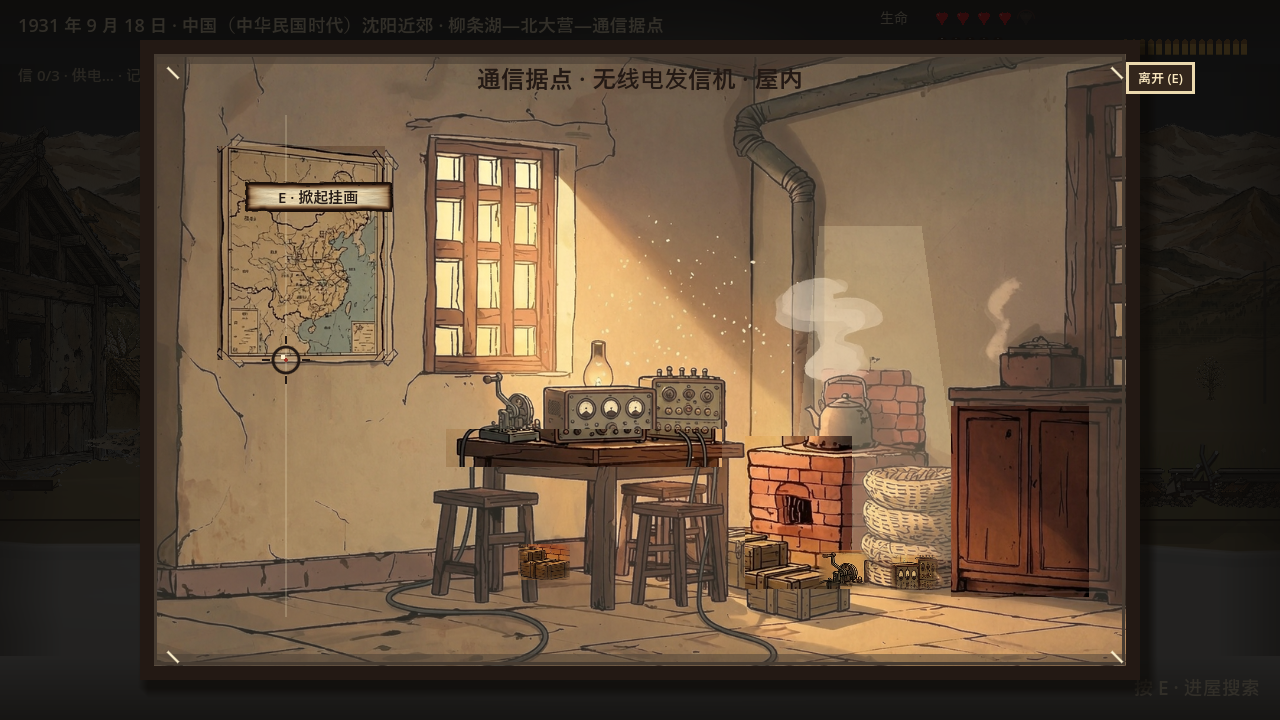
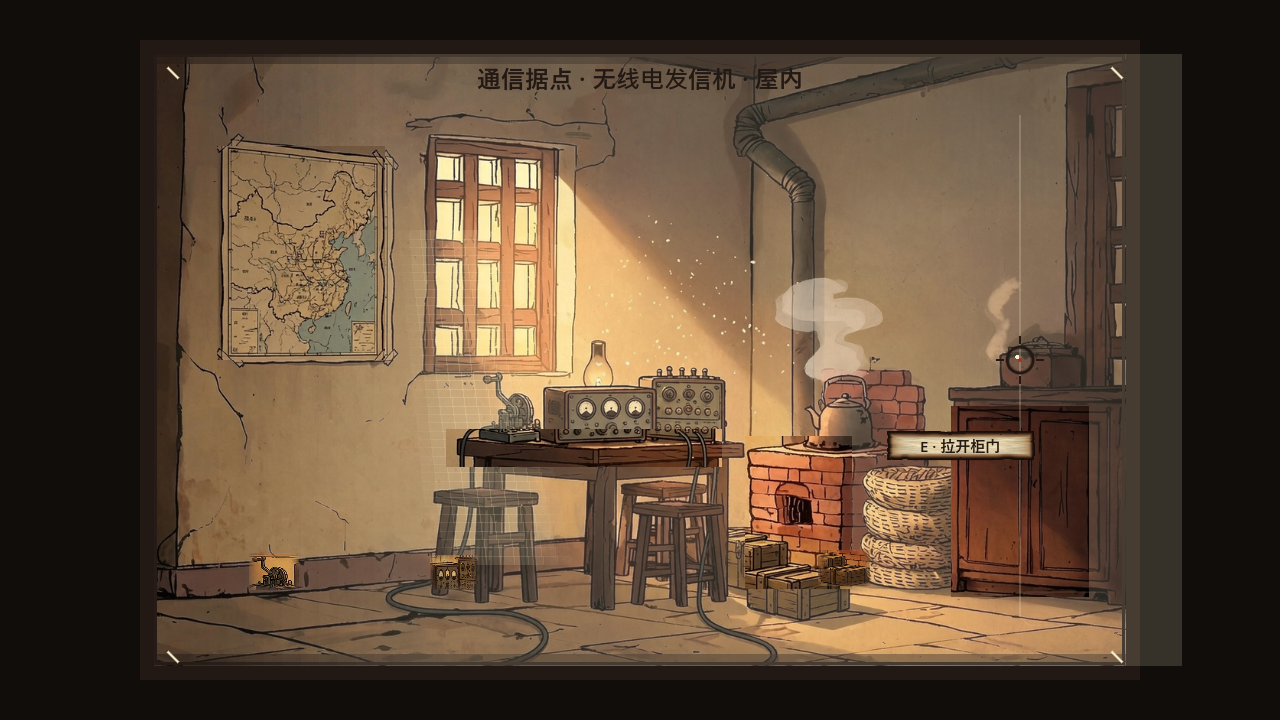
v3.89 · 室内光影修正（窗光对齐真实受光侧 + 局部渐变 + 光束羽化）
- 用户圈室内『阴影区凭空发亮 / 浮空亮块、部分物品异常发亮』：根因在最底层
  DrawWindowLight —— 光束死钉在 wx=0.66W（右侧），但三张室内背景贴图
  (residence/comm_outpost/burnt_warehouse) 窗户与受光面实际都在左侧（仅住家
  variant!=0 因 FlipH 镜像转右侧）；且全屏 RoomWash 均匀提亮把阴影区也提亮。
- 修正：rightWin=(Type==Residence && Variant!=0)；winX 取左 0.30W（variant!=0
  取右 0.74W），光束平行四边形随之从真实窗户斜投；RoomWash 改 56 条竖直细带、
  alpha 由窗户向阴影侧 smoothstep 衰减到≈0（阴影侧不再被提亮）；光束加 40×10
  水平羽化网格消除硬边（暗背景不再读成贴上去的矩形）；地面光斑随落地中心移动。
- dotnet build 0W/0E；CaptureRoom 出住家/通信据点/焚毁仓库三帧；ViewImage 核验：
  住家右侧灶台烟囱浮空亮块消失、左亮右暗自然；通信据点无浮空亮块；焚毁仓库
  硬边光束羽化为自然过渡。
- 画廊 n918_05_interior / n918_07_interior_explore 同名覆盖，?v=3.88/3.87→3.89；
  README 补 v3.89 章节 + 近期更新要点改 v3.89 为当前主线（旧章节全保留）。
- 美术贴图全程未动，仅改光影叠加层，全局钢笔淡彩风格保持统一。

diff --git a/scripts/InteriorExplore.cs b/scripts/InteriorExplore.cs
@@ -1141,38 +1141,77 @@ public partial class InteriorForeground : Control
     /// 画在背景之上、家具之下：窗外晕染（天空/地面/月或日）+ 房间光晕 + 地面光束（+夜：月与星）。
     /// 取色全部来自 WorldClock.For(t)，与关卡全局时辰联动。
     /// </summary>
+    /// <summary>
+    /// v3.89 窗光修正（用户 2026-11-13：阴影区被凭空打亮、右侧灶台烟囱一带浮空亮块）。
+    /// 根因：旧版把光束死钉在 wx=0.66W（右侧），但三张室内背景贴图的窗户/受光面都在
+    /// 左侧（仅住家 variant!=0 因 FlipH 镜像转到右侧），等于在阴影侧凭空打光；
+    /// 且全屏 RoomWash 均匀提亮，把本该暗的角落也提亮。
+    /// 修正：① 光束移到真实窗户所在侧；② 整体光晕改为「靠窗渐亮、向阴影侧 smoothstep
+    /// 衰减到 0」的局部光照，阴影侧不再被提亮（背景贴图本身已画好暗部）。
+    /// </summary>
     private void DrawWindowLight(float W, float H, WorldClock.Phase t)
     {
         var pal = WorldClock.For(t);
-        float wx = W * 0.66f, wy = 54f, ww = 150f, wh = 118f;
+        // 所有室内背景贴图的窗户/受光面都在左侧；仅住家 variant!=0 因贴图 FlipH 镜像，窗户转到右侧。
+        bool rightWin = (_room.Type == RoomType.Residence && _room.Variant != 0);
+        float winX = rightWin ? W * 0.74f : W * 0.30f;   // 窗户中心 x（背景贴图实测受光侧）
+        float winY = 56f;
+        float winW = 150f;
+        float topY = winY + 116f;                          // 窗台下沿（光束起点）
+        float dx = rightWin ? -48f : 48f;                 // 光束落地相对顶端的水平偏移（左窗→右下，右窗→左下）
 
-        // v3.80（用户反馈 #6「这个根本不需要吧」+ 全局画风一致红线）：移除原先浮在
-        // 右上墙面的「浅黄 2×2 方格 + 悬空圆盘」纯色窗框。它读起来像 UI 调试格子、
-        // 与整体手绘上色漫画风冲突；房间左上已有手绘漫画风木格窗承担「有窗」信息。
-        // v3.71 已确认的「窗光随时辰」功能核心保留：改为画外高窗透入的时辰光晕 +
-        // 地面光束表达（颜色仍由 WorldClock.For(t) 联动，夜偏冷 / 晨昏偏暖），不回退功能。
-
-        // 房间整体光晕（低 alpha，叠在背景上，不覆盖家具/物件）
-        DrawRect(new Rect2(0, 0, W, H), pal.RoomWash);
-
-        // 窗投到地面的光束（平行四边形：上端窄、落地宽；半透明）
-        float lx = wx + 24f, rx = wx + ww - 24f;
-        var beam = new Vector2[]
+        // 1) 局部光晕：仅在受光侧（窗户附近）做柔和的水平渐变提亮，绝不整屏均匀提亮。
+        //    用若干竖直细条，alpha 由窗户向阴影侧 smoothstep 衰减到 ~0，保留背景本身画好的暗部。
+        int strips = 56;
+        float colW = W / strips + 1f;
+        for (int i = 0; i < strips; i++)
         {
-            new Vector2(lx, wy + wh),
-            new Vector2(rx, wy + wh),
-            new Vector2(rx + 46f, InteriorRoom.FloorY),
-            new Vector2(lx - 34f, InteriorRoom.FloorY),
-        };
-        DrawColoredPolygon(beam, pal.Beam);
+            float x = i * colW;
+            float d = rightWin ? (x - winX) / (W - winX) : (winX - x) / winX;
+            d = Mathf.Clamp(d, 0f, 1f);
+            float a = pal.RoomWash.A * (1f - Mathf.SmoothStep(0f, 1f, d) * 0.94f);
+            if (a <= 0.004f) continue;
+            DrawRect(new Rect2(x, 0f, colW, H),
+                new Color(pal.RoomWash.R, pal.RoomWash.G, pal.RoomWash.B, a));
+        }
+
+        // 2) 窗投到地面的光束：平行四边形，水平方向做羽化（避免硬边读成贴上去的矩形）。
+        float lx = winX - winW * 0.5f + 22f;
+        float rx = winX + winW * 0.5f - 22f;
+        float blx0 = lx, brx0 = rx;                         // 顶边左右
+        float blx1 = lx + dx - 18f, brx1 = rx + dx + 18f;   // 底边左右（随光束方向偏移）
+        int rows = 40;
+        for (int i = 0; i < rows; i++)
+        {
+            float f = (i + 0.5f) / rows;
+            float y = topY + (InteriorRoom.FloorY - topY) * f;
+            float tr = (y - topY) / (InteriorRoom.FloorY - topY);
+            float xl = Mathf.Lerp(blx0, blx1, tr);
+            float xr = Mathf.Lerp(brx0, brx1, tr);
+            float dxw = (xr - xl) / 10f;
+            for (int j = 0; j < 10; j++)
+            {
+                float g = (j + 0.5f) / 10f;
+                float d = Mathf.Abs(g - 0.5f) * 2f;          // 0=中轴 1=边
+                float a = pal.Beam.A * (1f - d * d)            // 横向羽化：中亮边淡
+                                 * (1f - 0.25f * Mathf.Abs(2f * f - 1f)); // 顶/底再稍淡
+                if (a <= 0.012f) continue;
+                float x = xl + (xr - xl) * g;
+                DrawRect(new Rect2(x, y, dxw + 1f, (InteriorRoom.FloorY - topY) / rows + 1f),
+                    new Color(pal.Beam.R, pal.Beam.G, pal.Beam.B, a));
+            }
+        }
         // v3.86 地面光斑：同用那张淡墨晕染贴图上色，不再运行时画椭圆。
-        // 贴图自带 ≤0.44 的软 alpha，故把 Beam 的 alpha 补 2.2 倍维持原有明度。
+        // 贴图自带 ≤0.44 的软 alpha，故把 Beam 的 alpha 补 2.2 倍维持原有明度；位置随光束落地中心移动。
         if (_shadowTex != null)
+        {
+            float bcx = (lx + rx) * 0.5f + dx;
             DrawTextureRect(_shadowTex,
-                new Rect2((lx + rx) / 2f + 6f - 96f, InteriorRoom.FloorY - 16f, 192f, 40f),
+                new Rect2(bcx - 96f, InteriorRoom.FloorY - 16f, 192f, 40f),
                 false,
                 new Color(pal.Beam.R, pal.Beam.G, pal.Beam.B,
                           Mathf.Min(1f, pal.Beam.A * 2.2f)));
+        }
     }
 
     // v3.86：DrawFlatEllipse 已删除 —— 接触阴影、地落阴影、地面光斑全部改贴图采样。
